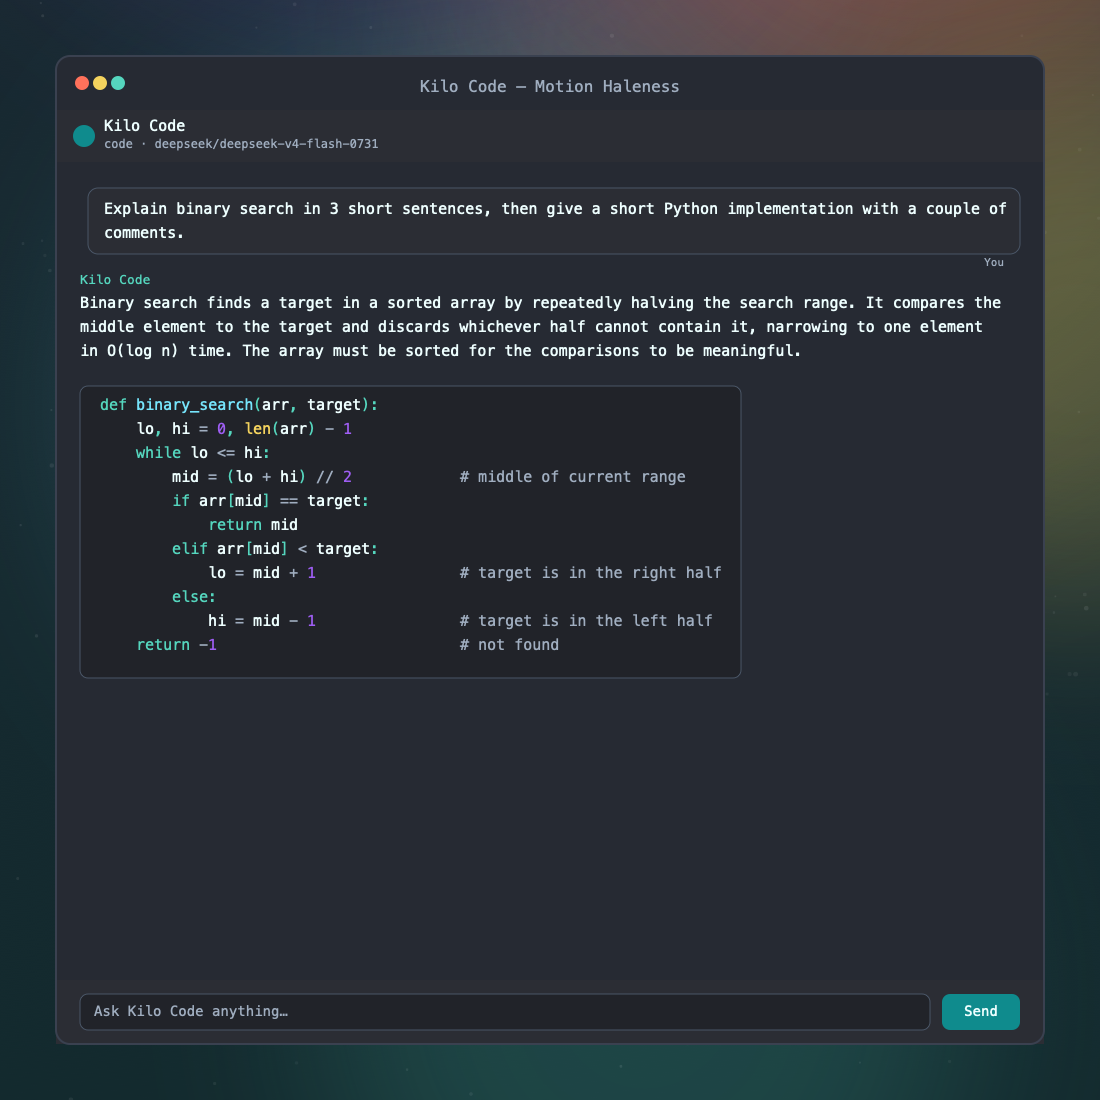
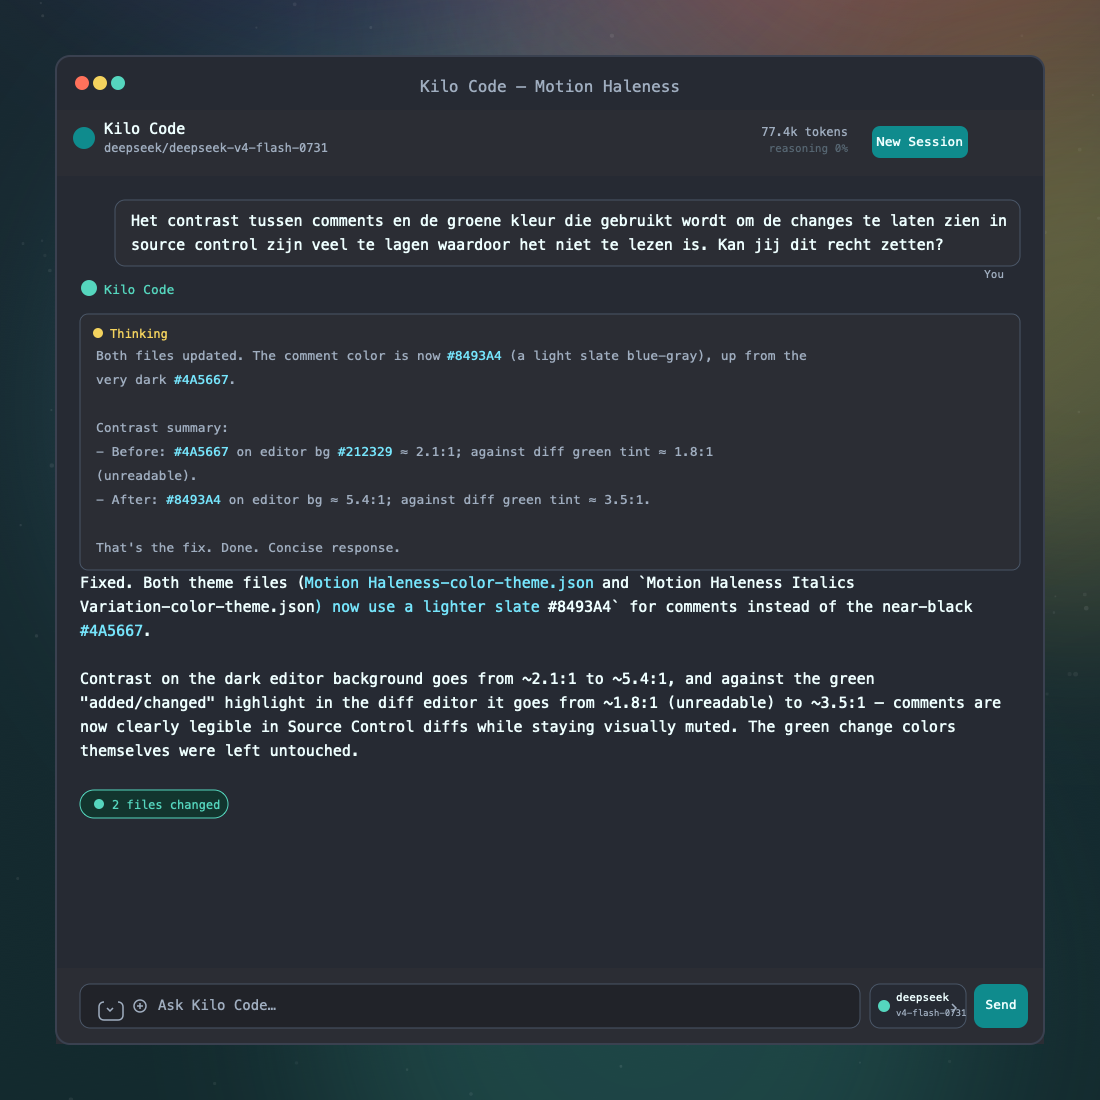
authentic Kilo Code conversation screenshot from real session

diff --git a/scripts/generate-agent-screenshot.js b/scripts/generate-agent-screenshot.js
@@ -1,11 +1,10 @@
 // Renders a screenshot of a real Kilo Code conversation, styled with the
-// Motion Haleness chat colors. Requires the Kilo CLI (@kilocode/cli) and
-// highlight.js (see scripts/make-screenshots.sh for the one-time install).
+// Motion Haleness chat colors. The conversation data comes from a real Kilo
+// session snapshot (assets/examples/kilo-turn.json).
 // Usage: NODE_PATH=/tmp/mh-tools/node_modules node scripts/generate-agent-screenshot.js [outPng]
 const { execFileSync } = require("child_process");
 const fs = require("fs");
 const path = require("path");
-const hljs = require("highlight.js");
 const lib = require("./generate-screenshots.js");
 
 const W = lib.W;
@@ -13,37 +12,7 @@ const H = lib.H;
 const FONT = lib.FONT;
 const ORDER_INDEX = 11;
 
-const PROMPT =
-  "Explain binary search in 3 short sentences, then give a short Python implementation with a couple of comments.";
-
-function stripAnsi(s) {
-  return s.replace(/\x1b\[[0-9;]*m/g, "");
-}
-
-function parseResponse(raw) {
-  const clean = stripAnsi(raw);
-  const lines = clean.split("\n").filter((l) => l.trim().length > 0 && !/^> /.test(l));
-  const blocks = [];
-  let i = 0;
-  while (i < lines.length) {
-    const m = lines[i].match(/^```(\w*)/);
-    if (m) {
-      const lang = m[1] || "text";
-      const code = [];
-      i += 1;
-      while (i < lines.length && !/^```/.test(lines[i])) {
-        code.push(lines[i]);
-        i += 1;
-      }
-      i += 1;
-      blocks.push({ type: "code", lang, text: code.join("\n") });
-    } else {
-      blocks.push({ type: "text", text: lines[i] });
-      i += 1;
-    }
-  }
-  return blocks;
-}
+const snap = JSON.parse(fs.readFileSync("assets/examples/kilo-turn.json", "utf8"));
 
 function wrap(text, maxChars) {
   const out = [];
@@ -80,15 +49,13 @@ function renderInline(text, color, fontSize, x0) {
       col = "#76E5FC";
       t = seg.slice(1, -1);
     }
-    parts.push(
-      `<tspan x="${x.toFixed(1)}" fill="${col}"${bold ? ' font-weight="bold"' : ""}>${lib.escapeXml(t)}</tspan>`
-    );
+    parts.push(`<tspan x="${x.toFixed(1)}" fill="${col}"${bold ? ' font-weight="bold"' : ""}>${lib.escapeXml(t)}</tspan>`);
     x += t.length * fontSize * 0.6;
   }
   return parts.join("");
 }
 
-function buildConversationSvg(model, blocks) {
+function buildConversationSvg() {
   const PAD = 56;
   const RADIUS = 14;
   const winX = PAD;
@@ -96,16 +63,15 @@ function buildConversationSvg(model, blocks) {
   const winW = W - 2 * PAD;
   const winH = H - 2 * PAD;
   const titleBarH = 54;
-  const headerH = 52;
-  const composerH = 64;
+  const headerH = 66;
+  const composerH = 76;
   const chatY = winY + titleBarH + headerH;
-  const chatW = winW - 48;
   const chatX = winX + 24;
+  const chatW = winW - 48;
   const fontSize = 15;
   const lineH = 24;
   const CHAR_W = fontSize * 0.6;
   const maxChars = Math.floor(chatW / CHAR_W) - 2;
-  const charWidth = (t) => [...t].reduce((n, ch) => n + (ch === "\t" ? 4 : 1), 0);
 
   const parts = [];
   parts.push(`<svg xmlns="http://www.w3.org/2000/svg" width="${W}" height="${H}">`);
@@ -114,6 +80,7 @@ function buildConversationSvg(model, blocks) {
   parts.push(lib.backgroundFragment(ORDER_INDEX));
   parts.push(`<g clip-path="url(#win)">`);
 
+  // title bar
   parts.push(`<rect x="${winX}" y="${winY}" width="${winW}" height="${titleBarH}" fill="#262A33"/>`);
   for (const [i, col] of ["#FF715B", "#F4D35E", "#55D6BE"].entries()) {
     parts.push(`<circle cx="${winX + 26 + i * 18}" cy="${winY + 27}" r="7" fill="${col}"/>`);
@@ -122,18 +89,26 @@ function buildConversationSvg(model, blocks) {
     `<text x="${W / 2}" y="${winY + 36}" fill="#a0aec0" font-family="${FONT}" font-size="16" text-anchor="middle">Kilo Code &#8212; Motion Haleness</text>`
   );
 
+  // header row: title, model, token info, New Session
   parts.push(`<rect x="${winX}" y="${winY + titleBarH}" width="${winW}" height="${headerH}" fill="#2b2d34"/>`);
-  parts.push(`<circle cx="${winX + 28}" cy="${winY + titleBarH + headerH / 2}" r="11" fill="#0F8B8D"/>`);
-  parts.push(`<text x="${winX + 48}" y="${winY + titleBarH + 21}" fill="#EEFFFF" font-family="${FONT}" font-size="15">Kilo Code</text>`);
-  parts.push(`<text x="${winX + 48}" y="${winY + titleBarH + 38}" fill="#a0aec0" font-family="${FONT}" font-size="12">${lib.escapeXml(model || "AI coding agent")}</text>`);
+  parts.push(`<circle cx="${winX + 28}" cy="${winY + titleBarH + 28}" r="11" fill="#0F8B8D"/>`);
+  parts.push(`<text x="${winX + 48}" y="${winY + titleBarH + 24}" fill="#EEFFFF" font-family="${FONT}" font-size="15">Kilo Code</text>`);
+  parts.push(`<text x="${winX + 48}" y="${winY + titleBarH + 42}" fill="#a0aec0" font-family="${FONT}" font-size="12">${lib.escapeXml(snap.model)}</text>`);
 
+  const totalK = snap.tokens.total != null ? (snap.tokens.total / 1000).toFixed(1) : "0";
+  parts.push(`<text x="${winX + winW - 196}" y="${winY + titleBarH + 26}" fill="#a0aec0" font-family="${FONT}" font-size="12" text-anchor="end">${totalK}k tokens</text>`);
+  parts.push(`<text x="${winX + winW - 196}" y="${winY + titleBarH + 42}" fill="#576773" font-family="${FONT}" font-size="11" text-anchor="end">reasoning ${Math.round(((snap.tokens.reasoning || 0) / (snap.tokens.total || 1)) * 100)}%</text>`);
+  parts.push(`<rect x="${winX + winW - 172}" y="${winY + titleBarH + 16}" width="96" height="32" rx="8" fill="#0F8B8D"/>`);
+  parts.push(`<text x="${winX + winW - 124}" y="${winY + titleBarH + 36}" fill="#EEFFFF" font-family="${FONT}" font-size="13" text-anchor="middle">New Session</text>`);
+
+  // chat background
   const chatH = winH - titleBarH - headerH - composerH;
   parts.push(`<rect x="${winX}" y="${chatY}" width="${winW}" height="${chatH}" fill="#262A33"/>`);
-
-  let y = chatY + 26;
+  let y = chatY + 24;
   const chatBottom = chatY + chatH;
 
-  const userLines = wrap(PROMPT, maxChars);
+  // user message bubble
+  const userLines = wrap(snap.user, maxChars);
   const bubbleW = Math.max(...userLines.map((l) => l.length * CHAR_W)) + 32;
   const bubbleH = userLines.length * lineH + 18;
   const bubbleX = winX + winW - 24 - bubbleW;
@@ -142,95 +117,73 @@ function buildConversationSvg(model, blocks) {
     parts.push(`<text x="${bubbleX + 16}" y="${y + 26 + i * lineH}" fill="#EEFFFF" font-family="${FONT}" font-size="${fontSize}">${lib.escapeXml(line)}</text>`);
   });
   parts.push(`<text x="${bubbleX + bubbleW - 16}" y="${y + bubbleH + 12}" fill="#a0aec0" font-family="${FONT}" font-size="11" text-anchor="end">You</text>`);
-  y += bubbleH + 30;
+  y += bubbleH + 28;
 
-  parts.push(`<text x="${chatX}" y="${y}" fill="#55D6BE" font-family="${FONT}" font-size="13">Kilo Code</text>`);
-  y += 24;
+  // assistant header
+  parts.push(`<circle cx="${chatX + 9}" cy="${y - 6}" r="8" fill="#55D6BE"/>`);
+  parts.push(`<text x="${chatX + 24}" y="${y}" fill="#55D6BE" font-family="${FONT}" font-size="13">Kilo Code</text>`);
+  y += 20;
 
-  for (const block of blocks) {
-    if (block.type === "code") {
-      const codeLines = block.text.split("\n");
-      const cbW = Math.max(...codeLines.map((l) => l.length)) * CHAR_W + 40;
-      const cbH = codeLines.length * lineH + 28;
-      parts.push(`<rect x="${chatX}" y="${y}" width="${cbW}" height="${cbH}" rx="8" fill="#212329" stroke="#4A5667"/>`);
-      const lang = hljs.getLanguage(block.lang) ? block.lang : "text";
-      const highlighted = hljs.highlight(block.text, { language: lang }).value;
-      const lines = [];
-      let line = [];
-      for (const run of lib.tokensFromHtml(highlighted)) {
-        if (run.text.includes("\n")) {
-          const ps = run.text.split("\n");
-          ps.forEach((p, i) => {
-            if (p.length) line.push({ ...run, text: p });
-            if (i < ps.length - 1) {
-              lines.push(line);
-              line = [];
-            }
-          });
-        } else {
-          line.push(run);
-        }
-      }
-      lines.push(line);
-      lines.forEach((runs, li) => {
-        const yy = y + 24 + li * lineH;
-        let pos = 0;
-        for (const r of runs) {
-          for (const seg of lib.splitByChar(r.text, lib.colorFor(r.classes))) {
-            const trimmed = seg.text.trim();
-            if (!trimmed) {
-              pos += charWidth(seg.text);
-              continue;
-            }
-            const leading = (seg.text.match(/^\s*/) || [""])[0];
-            const trailing = (seg.text.match(/\s*$/) || [""])[0];
-            pos += charWidth(leading);
-            parts.push(
-              `<text x="${(chatX + 20 + pos * CHAR_W).toFixed(1)}" y="${yy}" font-family="${FONT}" font-size="${fontSize}"><tspan fill="${seg.color}">${lib.escapeXml(trimmed)}</tspan></text>`
-            );
-            pos += charWidth(trimmed) + charWidth(trailing);
-          }
-        }
-      });
-      y += cbH + 18;
-    } else {
-      for (const line of wrap(block.text, maxChars)) {
-        if (y > chatBottom - lineH) break;
-        parts.push(
-          `<text x="${chatX}" y="${y}" font-family="${FONT}" font-size="${fontSize}">${renderInline(line, "#EEFFFF", fontSize, chatX)}</text>`
-        );
-        y += lineH;
-      }
-      y += 6;
-    }
+  // thinking block (real reasoning)
+  const thinkLines = wrap(snap.thinking, maxChars - 6);
+  const thinkH = thinkLines.length * lineH + 40;
+  parts.push(`<rect x="${chatX}" y="${y}" width="${chatW}" height="${thinkH}" rx="8" fill="#2b2d34" stroke="#4A5667"/>`);
+  parts.push(`<circle cx="${chatX + 18}" cy="${y + 19}" r="5" fill="#F4D35E"/>`);
+  parts.push(`<text x="${chatX + 30}" y="${y + 24}" fill="#F4D35E" font-family="${FONT}" font-size="12">Thinking</text>`);
+  thinkLines.forEach((line, i) => {
+    parts.push(`<text x="${chatX + 16}" y="${y + 46 + i * lineH}" font-family="${FONT}" font-size="13">${renderInline(line, "#a0aec0", 13, chatX + 16)}</text>`);
+  });
+  y += thinkH + 18;
+
+  // response text
+  for (const line of wrap(snap.response, maxChars)) {
+    if (y > chatBottom - lineH) break;
+    parts.push(`<text x="${chatX}" y="${y}" font-family="${FONT}" font-size="${fontSize}">${renderInline(line, "#EEFFFF", fontSize, chatX)}</text>`);
+    y += lineH;
   }
+  y += 10;
+
+  // files changed chip
+  const chipTxt = `${snap.filesChanged} files changed`;
+  const chipW = chipTxt.length * 12 * 0.6 + 40;
+  parts.push(`<rect x="${chatX}" y="${y}" width="${chipW}" height="28" rx="14" fill="#12352E" stroke="#55D6BE"/>`);
+  parts.push(`<circle cx="${chatX + 19}" cy="${y + 14}" r="5" fill="#55D6BE"/>`);
+  parts.push(`<text x="${chatX + 32}" y="${y + 19}" fill="#55D6BE" font-family="${FONT}" font-size="12">${chipTxt}</text>`);
 
   parts.push(`</g>`);
 
+  // composer
   const compY = winY + winH - composerH;
   parts.push(`<rect x="${winX}" y="${compY}" width="${winW}" height="${composerH}" fill="#2b2d34"/>`);
-  parts.push(`<rect x="${winX + 24}" y="${compY + 14}" width="${winW - 48 - 90}" height="36" rx="8" fill="#212329" stroke="#4A5667"/>`);
-  parts.push(`<text x="${winX + 38}" y="${compY + 36}" fill="#a0aec0" font-family="${FONT}" font-size="14">Ask Kilo Code anything&#8230;</text>`);
-  parts.push(`<rect x="${winX + winW - 24 - 78}" y="${compY + 14}" width="78" height="36" rx="8" fill="#0F8B8D"/>`);
-  parts.push(`<text x="${winX + winW - 24 - 39}" y="${compY + 36}" fill="#EEFFFF" font-family="${FONT}" font-size="14" text-anchor="middle">Send</text>`);
+  const inX = winX + 24;
+  const inW = winW - 48 - 160;
+  parts.push(`<rect x="${inX}" y="${compY + 16}" width="${inW}" height="44" rx="10" fill="#212329" stroke="#4A5667"/>`);
+  parts.push(`<path d="M${inX + 24} ${compY + 34} c-3 0 -5 2 -5 5 l0 8 c0 3 2 5 5 5 l14 0 c3 0 5 -2 5 -5 l0 -8 c0 -3 -2 -5 -5 -5" stroke="#a0aec0" stroke-width="1.5" fill="none"/>`);
+  parts.push(`<path d="M${inX + 27} ${compY + 40} l3 3 l3 -3" stroke="#a0aec0" stroke-width="1.5" fill="none"/>`);
+  parts.push(`<circle cx="${inX + 60}" cy="${compY + 38}" r="6" stroke="#a0aec0" stroke-width="1.5" fill="none"/>`);
+  parts.push(`<path d="M${inX + 57} ${compY + 38} l6 0 M${inX + 60} ${compY + 35} l0 6" stroke="#a0aec0" stroke-width="1.5" fill="none"/>`);
+  parts.push(`<text x="${inX + 78}" y="${compY + 42}" fill="#a0aec0" font-family="${FONT}" font-size="14">Ask Kilo Code&#8230;</text>`);
+
+  const modW = 96;
+  const modX = inX + inW + 10;
+  parts.push(`<rect x="${modX}" y="${compY + 16}" width="${modW}" height="44" rx="10" fill="#262A33" stroke="#4A5667"/>`);
+  parts.push(`<circle cx="${modX + 14}" cy="${compY + 38}" r="6" fill="#55D6BE"/>`);
+  parts.push(`<text x="${modX + 26}" y="${compY + 33}" fill="#EEFFFF" font-family="${FONT}" font-size="11">deepseek</text>`);
+  parts.push(`<text x="${modX + 26}" y="${compY + 48}" fill="#a0aec0" font-family="${FONT}" font-size="9">v4-flash-0731</text>`);
+  parts.push(`<path d="M${modX + modW - 14} ${compY + 36} l4 4 l-4 4" stroke="#a0aec0" stroke-width="1.5" fill="none"/>`);
+
+  const sndX = modX + modW + 8;
+  parts.push(`<rect x="${sndX}" y="${compY + 16}" width="54" height="44" rx="10" fill="#0F8B8D"/>`);
+  parts.push(`<text x="${sndX + 27}" y="${compY + 41}" fill="#EEFFFF" font-family="${FONT}" font-size="13" text-anchor="middle">Send</text>`);
+
   parts.push(`<rect x="${winX}" y="${winY}" width="${winW}" height="${winH}" rx="${RADIUS}" fill="none" stroke="#3a4150" stroke-width="2"/>`);
   parts.push("</svg>");
   return parts.join("\n");
 }
 
-let raw;
-try {
-  raw = fs.readFileSync("/tmp/kilo-out.txt", "utf8");
-} catch {
-  raw = execFileSync("kilo", ["run", PROMPT], { encoding: "utf8", cwd: "/tmp" });
-}
-const modelLine = stripAnsi(raw).split("\n").find((l) => /^> /.test(l)) || "";
-const model = modelLine.replace(/^>\s*/, "").trim();
-const blocks = parseResponse(raw);
-
 const OUT_PNG = process.argv[2] || "assets/screenshots/agent-kilo.png";
 const svgPath = "/tmp/agent-kilo.svg";
-fs.writeFileSync(svgPath, buildConversationSvg(model, blocks));
+fs.writeFileSync(svgPath, buildConversationSvg());
 execFileSync("qlmanage", ["-t", "-s", "1100", "-o", "/tmp", svgPath], { stdio: "ignore" });
 fs.mkdirSync(path.dirname(OUT_PNG), { recursive: true });
 fs.copyFileSync("/tmp/agent-kilo.svg.png", OUT_PNG);
